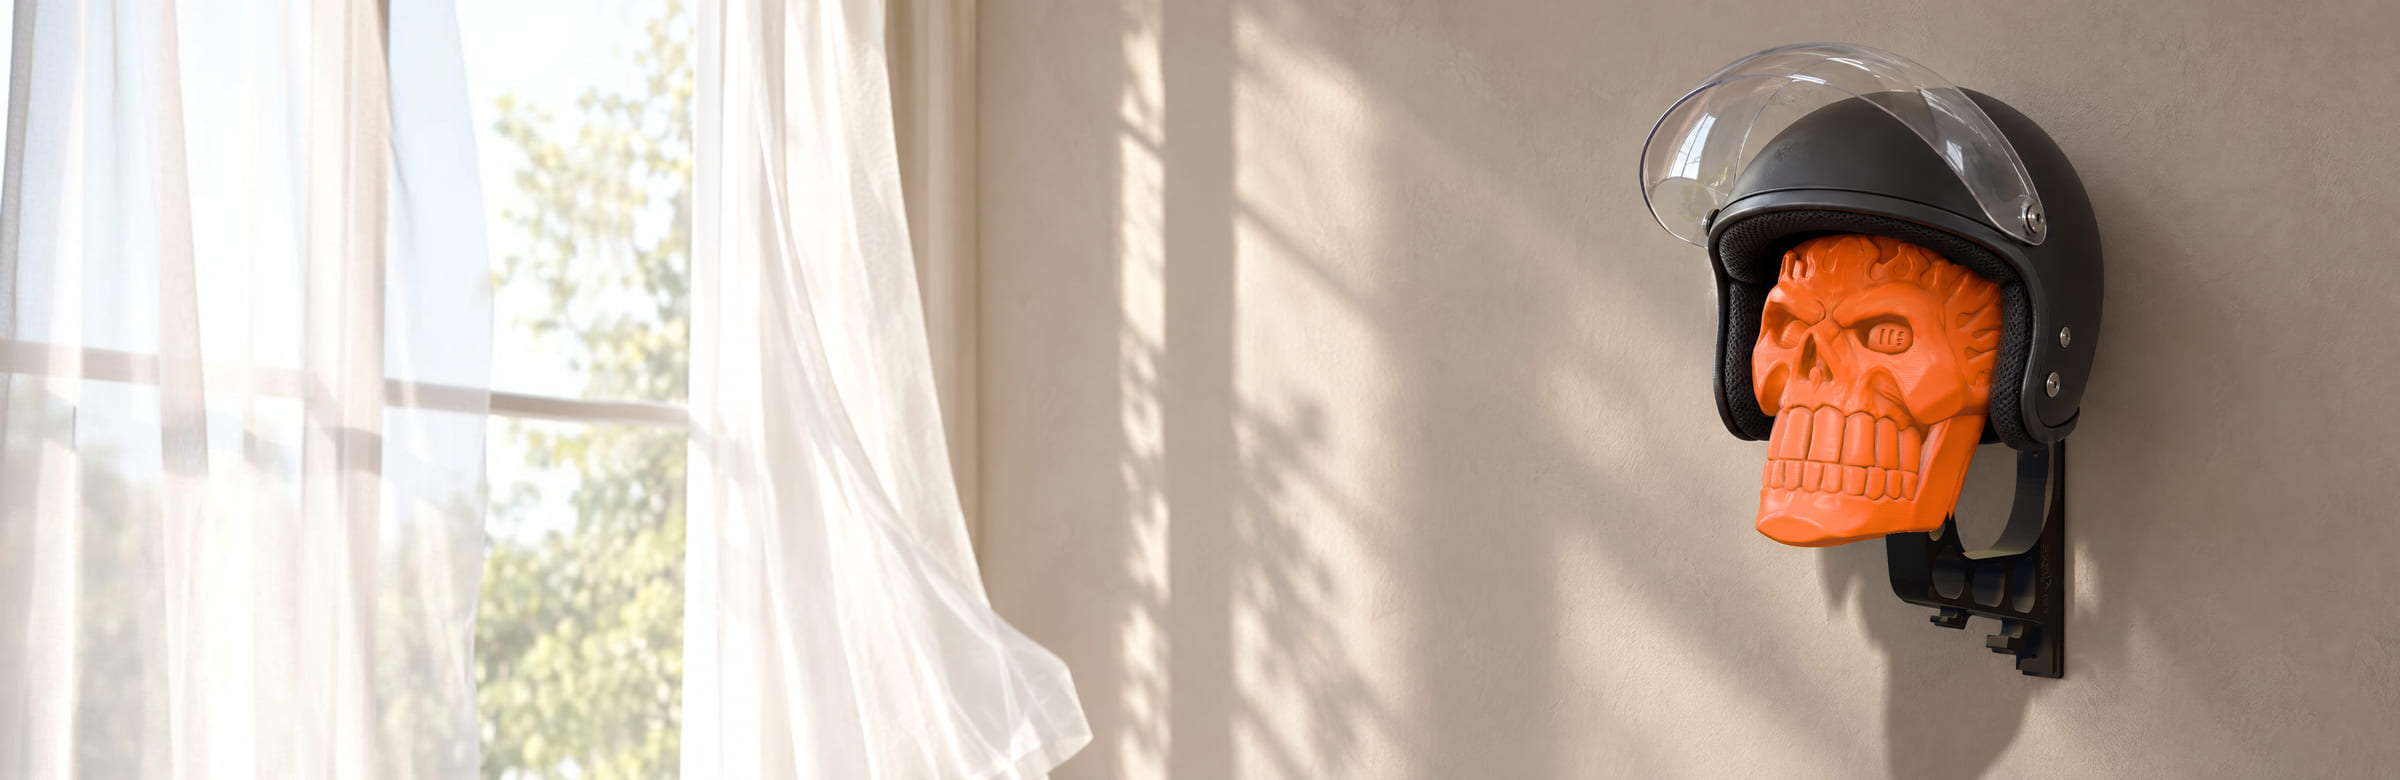
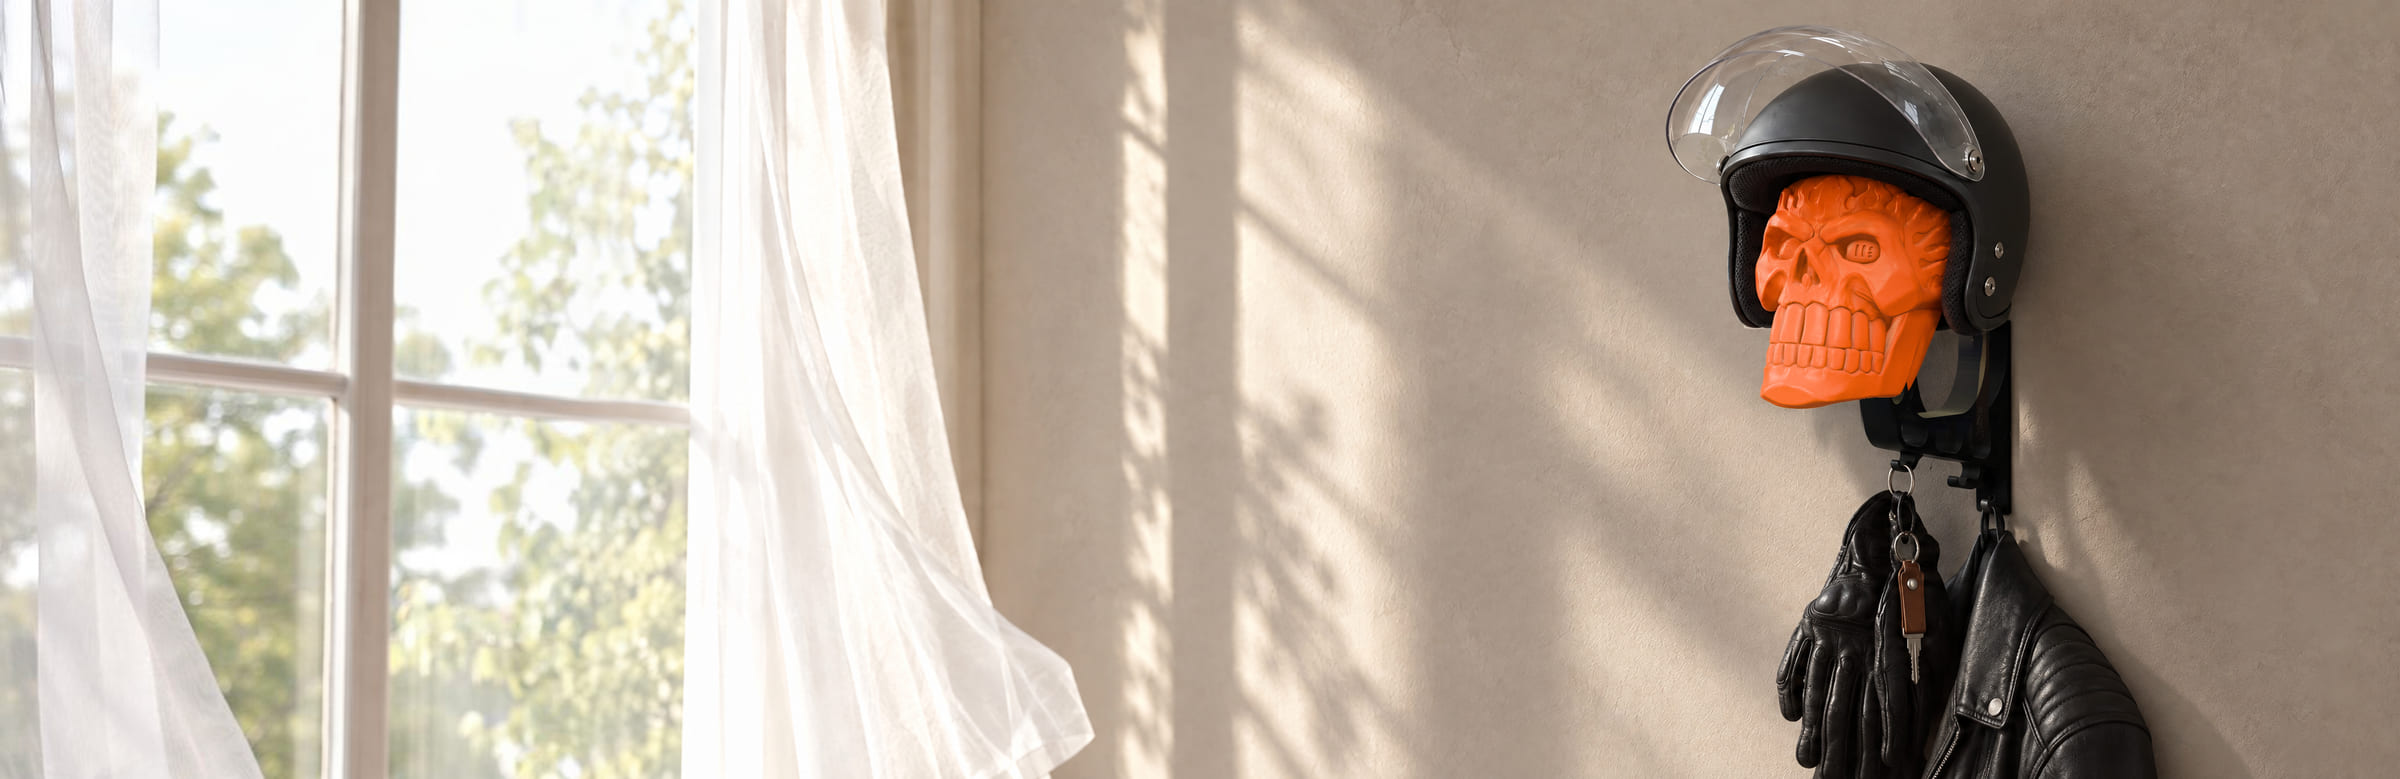
design: a jacket, gloves and keys hang under every helmet in Why it slaps
The three helmet pictures are recomposed with the mount higher and the
rider's gear on the arm's hooks. The skull, arm and post are still the
renders of the print files; the hooks and the foot of the plate, which the
gear hangs in front of, are the scene's.

diff --git a/components/marketing/bento.tsx b/components/marketing/bento.tsx
@@ -29,9 +29,9 @@ export function Bento() {
           hero
           title="Store in style"
           image="/product/why-store.jpg"
-          alt="A SKELMET mount with an open-face helmet on it, on a garage wall at night"
+          alt="A SKELMET mount on a garage wall at night, a helmet on the skull and a jacket, gloves and keys on its hooks"
           sizes="(min-width: 1024px) 50vw, 100vw"
-          focus="object-[72%_22%]"
+          focus="object-[72%_10%]"
           className="col-span-2 min-h-[300px] sm:min-h-[340px] lg:row-span-2 lg:min-h-0"
         >
           Bedroom, garage or living room: wherever you mount it, it catches eyes, commands attention
@@ -56,9 +56,9 @@ export function Bento() {
           icon={ShieldCheck}
           iconClass="text-violet"
           image="/product/why-safeguard.jpg"
-          alt="A glossy black helmet resting on the skull mount, clear of the floor"
+          alt="A glossy black helmet on the skull mount, with a jacket, gloves and keys on its hooks, clear of the floor"
           sizes="(min-width: 1024px) 25vw, (min-width: 640px) 50vw, 100vw"
-          focus="object-[50%_30%]"
+          focus="object-[50%_10%]"
           className="col-span-2 min-h-[260px] sm:col-span-1 lg:min-h-0"
         >
           Floors and shelves wear your helmet down over time with dust, scratches, and scuffs. A
@@ -71,9 +71,9 @@ export function Bento() {
           icon={Wind}
           iconClass="text-ember"
           image="/product/why-clean.jpg"
-          alt="A helmet with its visor up airing on the mount beside an open window"
+          alt="A helmet with its visor up airing on the mount beside an open window, a jacket, gloves and keys below it"
           sizes="(min-width: 1024px) 50vw, 100vw"
-          focus="object-[88%_35%] sm:object-[100%_40%]"
+          focus="object-[88%_20%] sm:object-[100%_5%]"
           className="col-span-2 min-h-[300px] sm:min-h-[240px] lg:min-h-0"
         >
           Sweat builds up in padding if the helmet is left closed up. Mounting keeps the helmet
